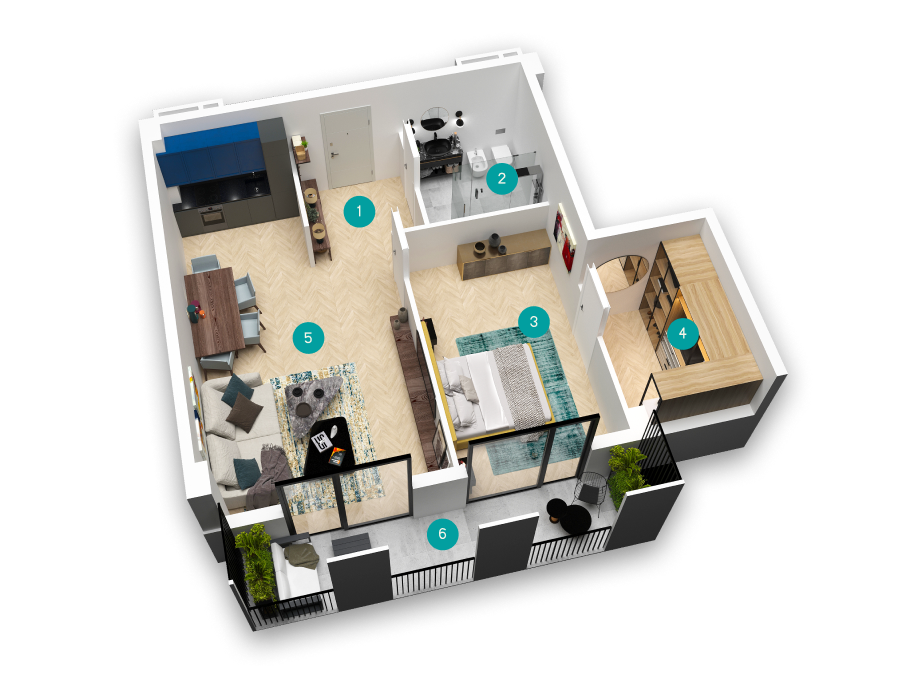
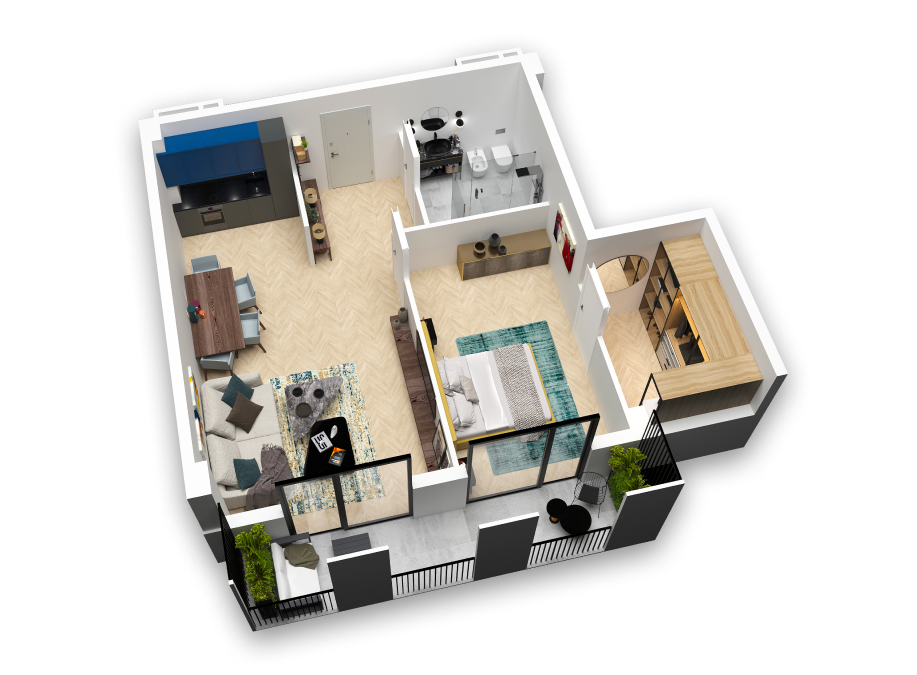
positioning numbers

diff --git a/src/components/Apartments/apartmentsInner/Apartment76.js b/src/components/Apartments/apartmentsInner/Apartment76.js
@@ -5,61 +5,35 @@ import logo from '../../../images/logo.svg'
 import './ApartmentInnerCSS.css'
 import m102inner from '../../../images/innerRenders/m76inner.png'
 
-const roomsArr = [
-    {   
-        id: 1,
-        number:1,
-        roomTypeGeo: 'ჰოლი',
-        roomTypeEng: 'Hall',
-        roomTypeRus: 'aaaa',
-        m2: '5.4 M2'      
-    },
+const pointerStyle6 ={
+    left: '45%',
+    top: '77%'
+}
 
-    {   
-        id: 2,
-        number:2,
-        roomTypeGeo: 'სააბაზანო',
-        roomTypeEng: 'Hall',
-        roomTypeRus: 'aaaa',
-        m2: '5 M2'
-    },
+const pointerStyle5 ={
+    left: '33%',
+    top: '43%'
+}
 
-    {
-        id: 3,
-        number:3,
-        roomTypeGeo: 'საძინებელი 1',
-        roomTypeEng: 'Hall',
-        roomTypeRus: 'aaaa',
-        m2: '19.3 M2'
-    },
+const pointerStyle4 ={
+    right: '25%',
+    top: '45%'
+}
 
-    {
-        id: 4,
-        number:4,
-        roomTypeGeo: 'საძინებელი 2',
-        roomTypeEng: 'Hall',
-        roomTypeRus: 'aaaa',
-        m2: '6.9 M2'
-    },
+const pointerStyle3 ={
+    right: '41%',
+    top: '47%'
+}
 
-    {
-        id: 5,
-        number:5,
-        roomTypeGeo: 'სტუდიო',
-        roomTypeEng: 'Hall',
-        roomTypeRus: 'aaaa',
-        m2: '25s.9 M2'
-    },
+const pointerStyle2 ={
+    right: '44%',
+    top: '24%'
+}
 
-    {
-        id: 6,
-        number:6,
-        roomTypeGeo: 'აივანი',
-        roomTypeEng: 'Hall',
-        roomTypeRus: 'aaaa',
-        m2: '10.3 M2'
-    }
-]
+const pointerStyle1 ={
+    right: '59%',
+    top: '28%'
+}
 
 export default function Apartment76() {
 
@@ -78,6 +52,14 @@ export default function Apartment76() {
     const [roomGeo, setRoomGeo] = useState(null)
     const [roomEng, setRoomEng] = useState(null)
     const [roomRus, setRoomRus] = useState(null)
+
+    const [ballNumber, setBallNumber] = useState(null)
+    const [ball1txt, setBall1txt] = useState(null)
+    const [ball2txt, setBall2txt] = useState(null)
+    const [ball3txt, setBall3txt] = useState(null)
+    const [ball4txt, setBall4txt] = useState(null)
+    const [ball5txt, setBall5txt] = useState(null)
+    const [ball6txt, setBall6txt] = useState(null)
 
     useEffect(()=>{
         setIsEng(false)
@@ -157,6 +139,71 @@ export default function Apartment76() {
         localStorage.setItem('language', 'rus')
     }
 
+    
+const roomsArr = [
+    {   
+        id: 1,
+        number:1,
+        roomTypeGeo: 'ჰოლი',
+        roomTypeEng: 'Hall',
+        roomTypeRus: 'aaaa',
+        m2: '5.4 M2',
+        forBold: `${ball1txt}`       
+    },
+
+    {   
+        id: 2,
+        number:2,
+        roomTypeGeo: 'სააბაზანო',
+        roomTypeEng: 'Hall',
+        roomTypeRus: 'aaaa',
+        m2: '5 M2',
+        forBold: `${ball2txt}` 
+    },
+
+    {
+        id: 3,
+        number:3,
+        roomTypeGeo: 'საძინებელი 1',
+        roomTypeEng: 'Hall',
+        roomTypeRus: 'aaaa',
+        m2: '19.3 M2',
+        forBold: `${ball3txt}` 
+    },
+
+    {
+        id: 4,
+        number:4,
+        roomTypeGeo: 'საძინებელი 2',
+        roomTypeEng: 'Hall',
+        roomTypeRus: 'aaaa',
+        m2: '6.9 M2',
+        forBold: `${ball4txt}` 
+    },
+
+    {
+        id: 5,
+        number:5,
+        roomTypeGeo: 'სტუდიო',
+        roomTypeEng: 'Hall',
+        roomTypeRus: 'aaaa',
+        m2: '25s.9 M2',
+        forBold: `${ball5txt}` 
+    },
+
+    {
+        id: 6,
+        number:6,
+        roomTypeGeo: 'აივანი',
+        roomTypeEng: 'Hall',
+        roomTypeRus: 'aaaa',
+        m2: '10.3 M2',
+        forBold: `${ball6txt}` 
+    }
+]
+
+    
+
     return(
         <>
         <div className='Navbar'  style={{backgroundColor:'#A9C1A9'}}>
@@ -184,6 +231,118 @@ export default function Apartment76() {
 
                 <div className="apartment_main_inner_left">
                     <img src={m102inner} alt="m102inner" />
+
+                    <span style={pointerStyle6} className="pointers"
+                        onClick={()=>{
+                            if(ballNumber === 6){
+                                setBallNumber(null)
+                                setBall6txt(null)
+                            }else{
+                                setBallNumber(6)
+                                setBall6txt('bold')
+
+                                setBall1txt(null)
+                                setBall2txt(null)
+                                setBall3txt(null)
+                                setBall4txt(null)
+                                setBall5txt(null)
+                            }
+                        }}
+                    >6</span>
+
+                    <span style={pointerStyle5} className="pointers"
+                        onClick={()=>{
+                            if(ballNumber === 5){
+                                setBallNumber(null)
+                                setBall5txt(null)
+                            }else{
+                                setBallNumber(5)
+                                setBall5txt('bold')
+
+                                setBall1txt(null)
+                                setBall2txt(null)
+                                setBall3txt(null)
+                                setBall4txt(null)
+                                setBall6txt(null)
+                            }
+                        }}
+                    >5</span>
+
+                    <span style={pointerStyle4} className="pointers"
+                        onClick={()=>{
+                            if(ballNumber === 4){
+                                setBallNumber(null)
+                                setBall4txt(null)
+                            }else{
+                                setBallNumber(4)
+                                setBall4txt('bold')
+
+                                setBall1txt(null)
+                                setBall2txt(null)
+                                setBall3txt(null)
+                                setBall5txt(null)
+                                setBall6txt(null)
+                            }
+                        }}
+                    >4</span>
+
+                    <span style={pointerStyle3} className="pointers"
+                        onClick={()=>{
+                            if(ballNumber === 3){
+                                setBallNumber(null)
+                                setBall3txt(null)
+                            }else{
+                                setBallNumber(3)
+                                setBall3txt('bold')
+
+                                setBall1txt(null)
+                                setBall2txt(null)
+                                setBall4txt(null)
+                                setBall5txt(null)
+                                setBall6txt(null)
+                            }
+                        }}
+                    >3</span>
+
+                    <span style={pointerStyle2} className="pointers"
+                    onClick={()=>{
+                        if(ballNumber === 2){
+                            setBallNumber(null)
+                            setBall2txt(null)
+                        }else{
+                            setBallNumber(2)
+                            setBall2txt('bold')
+                            
+                            setBall1txt(null)
+                            setBall3txt(null)
+                            setBall4txt(null)
+                            setBall5txt(null)
+                            setBall6txt(null)
+                        }
+                    }}
+                    >2</span>
+
+                    <span 
+                        style={pointerStyle1} 
+                        className="pointers" 
+                        onClick={()=> {
+                            if(ballNumber === 1){
+                                setBallNumber(null)
+                                setBall1txt(null)
+                            }else{
+                                setBallNumber(1)
+                                setBall1txt('bold')
+
+                                setBall2txt(null)
+                                setBall3txt(null)
+                                setBall4txt(null)
+                                setBall5txt(null)
+                                setBall6txt(null)
+                            }
+                        }
+                            
+                        }
+                        >1</span>
                 </div>
 
                 <div className="apartment_main_inner_right">
@@ -195,15 +354,15 @@ export default function Apartment76() {
                                 <div className="apartment_rooms" key={room.id}>
                                     <div className="room">
 
-                                        <div className="number_name">
+                                    <div className="number_name">
                                             <div className="numberRounded">{room.number}</div>
 
-                                            <p className={roomGeo}>{room.roomTypeGeo}</p>
-                                            <p className={roomEng}>{room.roomTypeEng}</p>
-                                            <p className={roomRus}>{room.roomTypeRus}</p>
+                                            <p className={roomGeo}><span className={room.forBold}>{room.roomTypeGeo}</span></p>
+                                            <p className={roomEng}><span className={room.forBold}>{room.roomTypeEng}</span></p>
+                                            <p className={roomRus}><span className={room.forBold}>{room.roomTypeRus}</span></p>
                                         </div>
 
-                                        <p>{room.m2}</p>
+                                        <p className={room.forBold}>{room.m2}</p>
                                     </div>
                                 </div>
                             )
